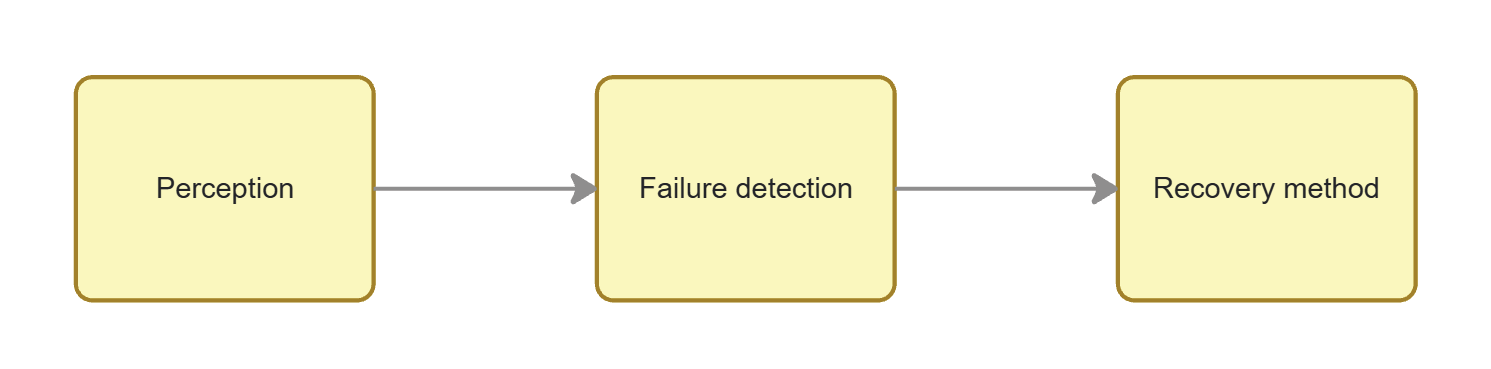
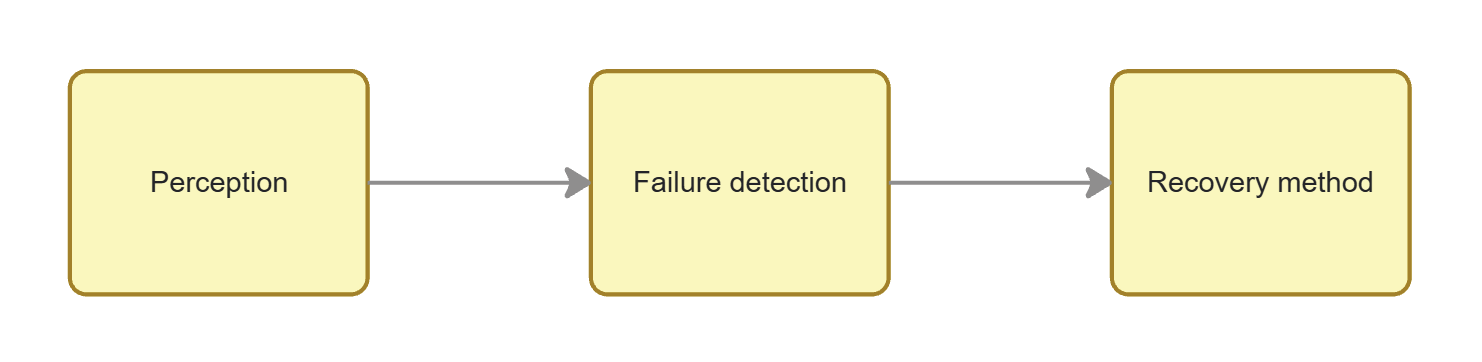
Fix image path for project pipeline flowchart

diff --git a/_posts/2026-01-30-project-kickoff.md b/_posts/2026-01-30-project-kickoff.md
@@ -16,7 +16,8 @@ In this project, I am investigating failure detection and recovery methods for w
 
 I've split my project into three layers to keep things organized:
 
-![Project Pipeline](/final-year-blog/assets/img/project_pipeline.png)
+
+![Project Pipeline](/assets/img/project_pipeline.png)
 _Flowchart created using [Miro](https://miro.com/app/dashboard/)_
 
 **1. Perception and Configuration**
